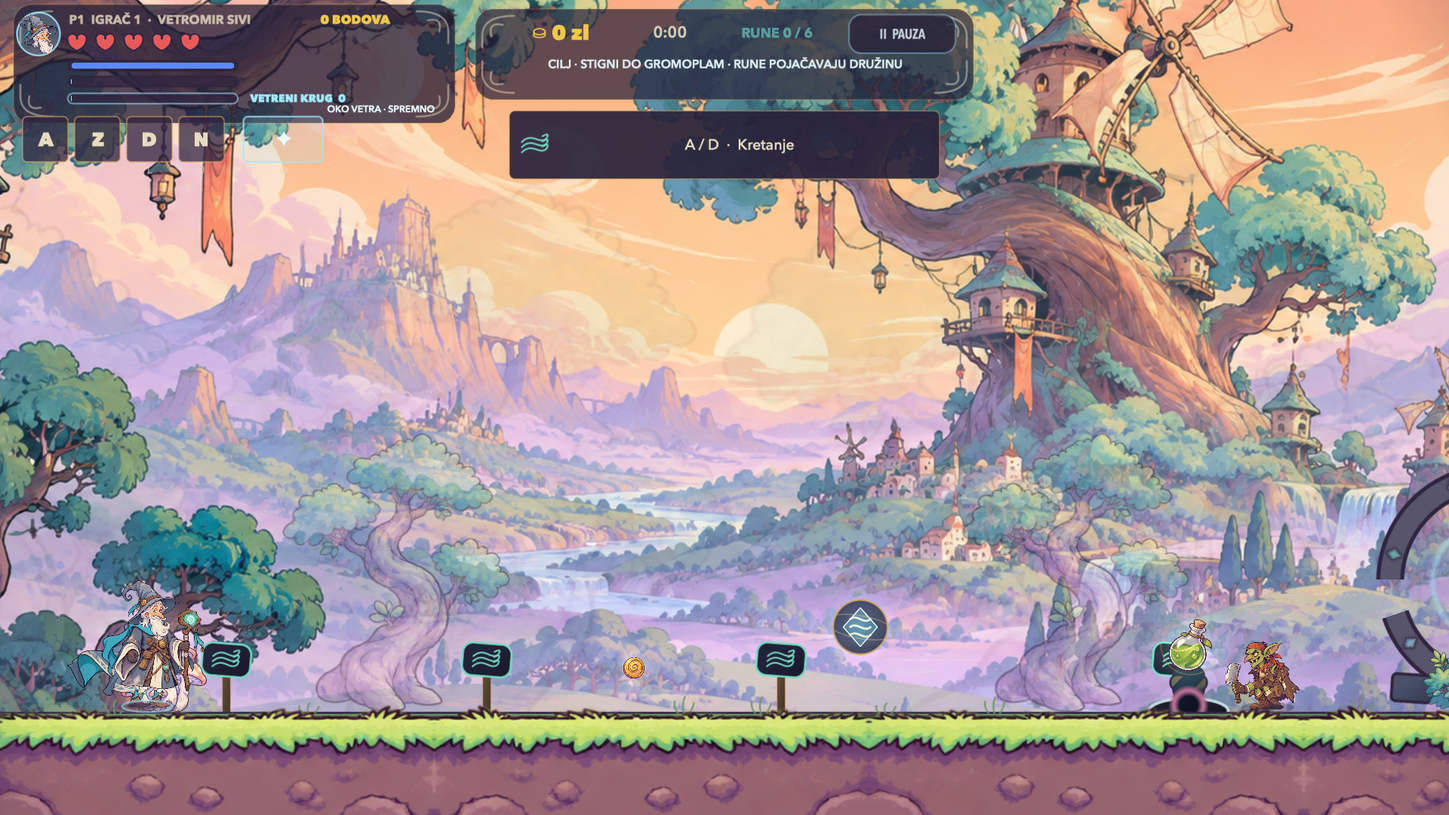
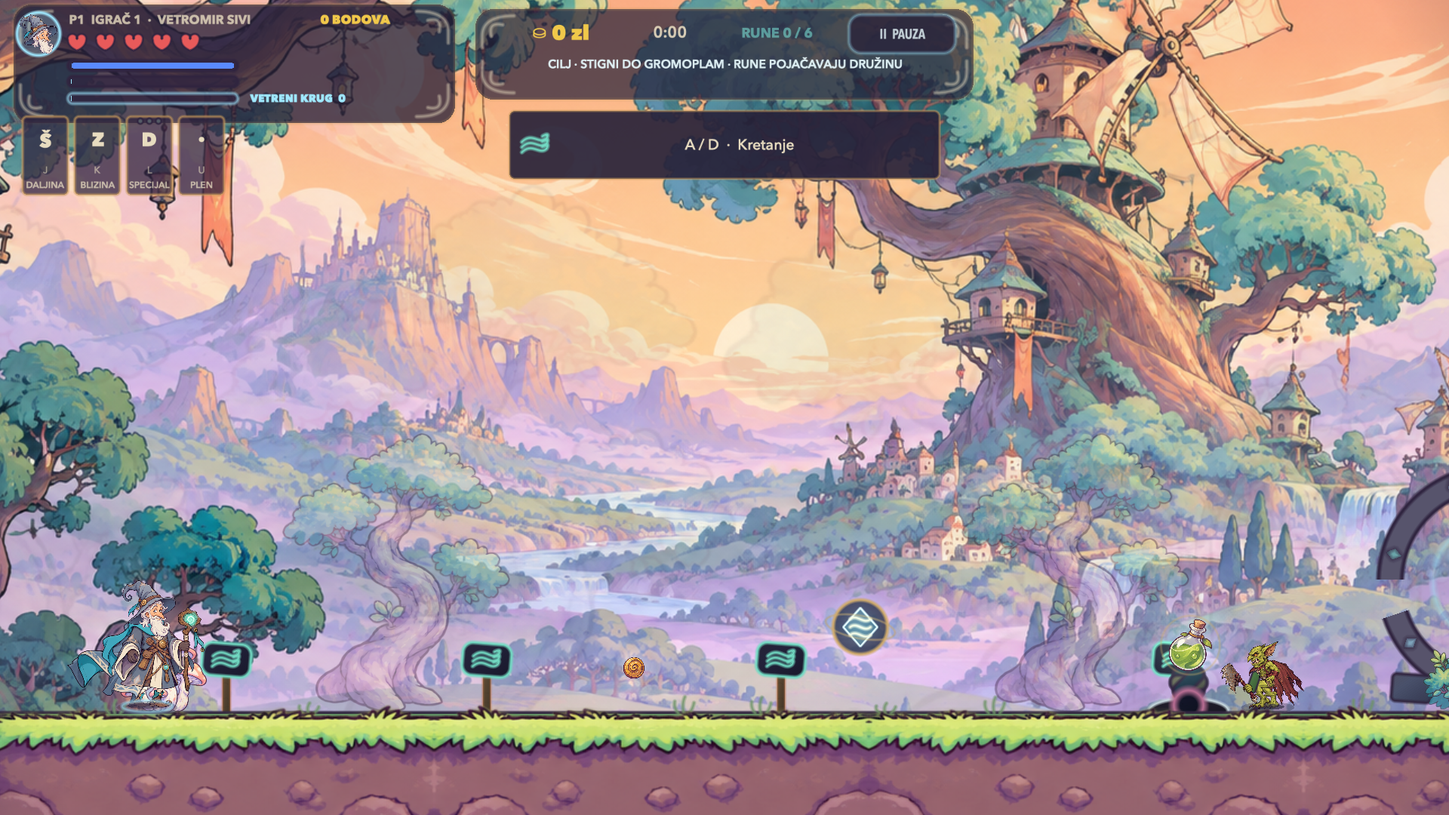
Promote free Vetromir 7.25 with current bilingual screenshots and downloads

diff --git a/en/index.html b/en/index.html
@@ -47,10 +47,10 @@
     "genre": ["Action platformer", "Run and gun", "Local co-op"],
     "playMode": ["SinglePlayer", "CoOp"],
     "inLanguage": "en",
-    "softwareVersion": "7.21",
-    "downloadUrl": "https://github.com/srdjankotarlic/vetromir-sivi-source/releases/tag/v7.21",
+    "softwareVersion": "7.25",
+    "downloadUrl": "https://github.com/srdjankotarlic/vetromir-sivi-source/releases/tag/v7.25",
     "author": {"@type": "Person", "name": "Srđan Kotarlić", "url": "https://github.com/srdjankotarlic"},
-    "offers": {"@type": "Offer", "price": "0.00", "priceCurrency": "USD", "url": "https://github.com/srdjankotarlic/vetromir-sivi-source/releases/tag/v7.21", "availability": "https://schema.org/InStock"}
+    "offers": {"@type": "Offer", "price": "0.00", "priceCurrency": "USD", "url": "https://github.com/srdjankotarlic/vetromir-sivi-source/releases/tag/v7.25", "availability": "https://schema.org/InStock"}
   }
   </script>
 
@@ -254,32 +254,32 @@
           <a href="#download">Download</a><a href="#faq">FAQ</a><a href="../" lang="sr">Srpsko izdanje</a>
         </div>
       </details>
-      <a class="btn primary" href="https://github.com/srdjankotarlic/vetromir-sivi-source/releases/tag/v7.21">Download free</a>
+      <a class="btn primary" href="https://github.com/srdjankotarlic/vetromir-sivi-source/releases/tag/v7.25">Download free</a>
     </nav>
   </header>
 
   <main id="main">
     <section class="hero" style="border-top:0">
       <div class="wrap hero-copy">
-        <span class="version">7.21 · CURIOUS ARSENAL · ENGLISH + SERBIAN</span>
+        <span class="version">7.25 · FIERCER ENCOUNTERS · ENGLISH + SERBIAN</span>
         <h1><span>VETROMIR</span>SHADOWLANDS ADVENTURES</h1>
         <p class="sub">Mrakovina has lost its wind. Choose one of eight heroes, cross ten full adventures and open the path to NEDAH, guardian of the Zero Sky.</p>
         <div class="cta">
-          <a class="btn primary" href="https://github.com/srdjankotarlic/vetromir-sivi-source/releases/tag/v7.21">Download free</a>
+          <a class="btn primary" href="https://github.com/srdjankotarlic/vetromir-sivi-source/releases/tag/v7.25">Download free</a>
           <a class="btn" href="#preview">See the new game</a>
         </div>
         <ul class="trust"><li>Free, both languages</li><li>No account or ads</li><li>1-2 local players</li><li>Progress stays on your Mac</li></ul>
 
         <div class="game-preview" id="preview">
-          <a href="../assets/en/03-ashwind-grove.png"><img src="../assets/en/03-ashwind-grove.png" width="1920" height="1080" fetchpriority="high" alt="Vetromir 7.21: the current hero and painted Ashwind Grove in the English game"></a>
+          <a href="../assets/en/03-ashwind-grove.png"><img src="../assets/en/03-ashwind-grove.png" width="1920" height="1080" fetchpriority="high" alt="Vetromir 7.25: the current hero and painted Ashwind Grove in the English game"></a>
         </div>
-        <p class="preview-note">Captured in version 7.21. Open the image to see it at full size.</p>
+        <p class="preview-note">Captured in version 7.25. Open the image to see it at full size.</p>
 
         <div class="numbers" aria-label="Game content">
           <div class="number"><strong>8</strong><span>heroes</span></div>
           <div class="number"><strong>10 + 1</strong><span>adventures</span></div>
           <div class="number"><strong>11</strong><span>guardians</span></div>
-          <div class="number"><strong>1,399</strong><span>enemies</span></div>
+          <div class="number"><strong>918</strong><span>powerful enemies</span></div>
           <div class="number"><strong>1-2</strong><span>players</span></div>
         </div>
       </div>
@@ -291,7 +291,7 @@
         <h2>Movement, combat and choices that reshape the journey</h2>
         <p class="lead">This is more than running and shooting. Every hero changes the rhythm, every world introduces a rule and every guardian demands a new answer.</p>
         <div class="feature-grid">
-          <article class="feature"><i>8</i><h3>Eight distinct arsenals</h3><p>Plant mines and detonate them, link floating anchors, snap returning shears or stretch a cutting thread. Each hero has a personal primary and secondary combination.</p></article>
+          <article class="feature"><i>8</i><h3>Three powers, eight styles</h3><p>Ranged, melee and a unique special for every hero. Plant mines, link anchors, recall a sabre or stretch a cutting thread. Slot four holds attacks found during the run.</p></article>
           <article class="feature"><i>↗</i><h3>Movement worth mastering</h3><p>Variable jumps, coyote time, buffering, wall slides, long jumps, gliding and aerial strikes form one connected system.</p></article>
           <article class="feature"><i>XI</i><h3>A journey with an ending</h3><p>Ten full chapters unlock the Zero Sky, NEDAH's five phases and a complete epilogue.</p></article>
           <article class="feature"><i>2</i><h3>Local fellowship</h3><p>Play solo or add a second player. Keyboard, mouse and controller bindings are remappable.</p></article>
@@ -316,8 +316,8 @@
             <a class="showcase-media" href="../assets/en/04-bell-city.png"><img src="../assets/en/04-bell-city.png" alt="A later Vetromir chapter in English" width="1280" height="720" loading="lazy"></a>
           </article>
           <article class="showcase-card">
-            <a class="showcase-media" href="../assets/en/05-signature-move.png"><img src="../assets/en/05-signature-move.png" alt="A hero signature move in combat" width="1280" height="720" loading="lazy"></a>
-            <div class="showcase-copy"><span class="eyebrow">COMBAT IDENTITY</span><h3>Primary attacks do not share the same logic</h3><p>Heroes return blades, place anchors, wake sentinel seeds, close space, guard allies or spend a personal resource to reverse a fight.</p><div class="tags"><span class="tag">primary weapons</span><span class="tag">signature moves</span><span class="tag">supers</span></div></div>
+            <a class="showcase-media" href="../assets/en/05-signature-move.png"><img src="../assets/en/05-signature-move.png" alt="Vetromir and power-up runes in version 7.25" width="1920" height="1080" loading="lazy"></a>
+            <div class="showcase-copy"><span class="eyebrow">COMBAT IDENTITY</span><h3>Primary attacks do not share the same logic</h3><p>Heroes return blades, place anchors, wake sentinel seeds, close space or guard allies. Three permanent powers cover ranged, melee and special attacks; collected loot adds a fourth option.</p><div class="tags"><span class="tag">ranged</span><span class="tag">melee</span><span class="tag">special</span><span class="tag">loot</span></div></div>
           </article>
         </div>
       </div>
@@ -330,14 +330,14 @@
         <p class="lead">No choice is merely a different costume. Each hero has a personal weapon, resource, movement model, defence and finishing move.</p>
         <a class="wide-shot" href="../assets/en/02-eight-heroes.png"><img src="../assets/en/02-eight-heroes.png" alt="Eight playable heroes in the English edition" width="1280" height="720" loading="lazy"></a>
         <div class="roster">
-          <div class="hero-card"><strong>Vetromir Grey</strong><span>wind astrolabe and pocket storm</span></div>
-          <div class="hero-card"><strong>Vukasin</strong><span>returning shears and closing cut</span></div>
-          <div class="hero-card"><strong>Zorvid</strong><span>sky compass and constellation break</span></div>
-          <div class="hero-card"><strong>Gvozdan</strong><span>marble furnace and remote detonation</span></div>
-          <div class="hero-card"><strong>Ognjen</strong><span>dawn parasol and noon mirror</span></div>
-          <div class="hero-card"><strong>Rujana</strong><span>crimson spool and silk loom</span></div>
-          <div class="hero-card"><strong>Jasenka</strong><span>seed chime and full bloom</span></div>
-          <div class="hero-card"><strong>Nocena</strong><span>yesterday's lantern and replayed strikes</span></div>
+          <div class="hero-card"><strong>Vetromir Sivi</strong><span>spiralwind staff and pocket storm</span></div>
+          <div class="hero-card"><strong>Vukasin</strong><span>returning sabre and closing cut</span></div>
+          <div class="hero-card"><strong>Zorvid</strong><span>star bow and constellation break</span></div>
+          <div class="hero-card"><strong>Gvozdan</strong><span>embercore hammer and remote detonation</span></div>
+          <div class="hero-card"><strong>Ognjen</strong><span>flying dawn spear and noon mirror</span></div>
+          <div class="hero-card"><strong>Rujana</strong><span>rosepetal rapier and silk loom</span></div>
+          <div class="hero-card"><strong>Jasenka</strong><span>living thorn staff and full bloom</span></div>
+          <div class="hero-card"><strong>Nocena</strong><span>moon sickle and replayed strikes</span></div>
         </div>
       </div>
     </section>
@@ -353,10 +353,10 @@
 
     <section id="download">
       <div class="wrap">
-        <div class="center"><span class="eyebrow">BEGIN THE JOURNEY</span><h2>Download Vetromir free</h2><p class="lead">The new 7.21 release includes English and Serbian in one app, as a DMG or ZIP. For Apple Silicon Macs running macOS 13 Ventura or newer.</p></div>
+        <div class="center"><span class="eyebrow">BEGIN THE JOURNEY</span><h2>Download Vetromir free</h2><p class="lead">The new 7.25 release includes English and Serbian in one app, as a DMG or ZIP. For Apple Silicon Macs running macOS 13 Ventura or newer.</p></div>
         <div class="download-grid">
-          <article class="download-card recommended"><span class="eyebrow">COMPLETE GAME</span><h3>macOS DMG + ZIP</h3><p>Choose the DMG for the easiest installation or the ZIP as a fallback. Both languages are inside the same app.</p><span class="filename">Version 7.21 · Apple Silicon · English + Serbian</span><a class="btn primary" href="https://github.com/srdjankotarlic/vetromir-sivi-source/releases/tag/v7.21">Download free</a></article>
-          <article class="download-card"><span class="eyebrow">CURRENT RELEASE</span><h3>Press kit 7.21</h3><p>Current Full HD screenshots, the arsenal guide, release facts and social copy in English and Serbian.</p><span class="filename">Screenshots · arsenal · copy · tested scope</span><a class="btn" href="https://github.com/srdjankotarlic/vetromir-sivi-source/releases/download/v7.21/Vetromir-7.21-Press-Kit.zip">Download the press kit</a></article>
+          <article class="download-card recommended"><span class="eyebrow">COMPLETE GAME</span><h3>macOS DMG + ZIP</h3><p>Choose the DMG for the easiest installation or the ZIP as a fallback. Both languages are inside the same app.</p><span class="filename">Version 7.25 · Apple Silicon · English + Serbian</span><a class="btn primary" href="https://github.com/srdjankotarlic/vetromir-sivi-source/releases/tag/v7.25">Download free</a></article>
+          <article class="download-card"><span class="eyebrow">CURRENT RELEASE</span><h3>Press kit 7.25</h3><p>Current Full HD screenshots, the arsenal guide, release facts and social copy in English and Serbian.</p><span class="filename">Screenshots · arsenal · copy · tested scope</span><a class="btn" href="https://github.com/srdjankotarlic/vetromir-sivi-source/releases/download/v7.25/Vetromir-7.25-Press-Kit.zip">Download the press kit</a></article>
         </div>
         <div class="steps">
           <div class="step"><b>1</b><strong>Open the GitHub release</strong><span>Under Assets, choose the DMG, not Source code.</span></div>
@@ -372,10 +372,10 @@
       <div class="wrap center">
         <span class="eyebrow">FAQ</span><h2>Before you set out</h2>
         <div class="faq">
-          <details open><summary>How much does Vetromir cost?</summary><p>The complete 7.21 release is free on public GitHub. There are no subscriptions, ads, in-game purchases or time limits. itch.io still hosts an earlier release and companion material.</p></details>
+          <details open><summary>How much does Vetromir cost?</summary><p>The complete 7.25 release is free on public GitHub. There are no subscriptions, ads, in-game purchases or time limits. itch.io still hosts an earlier release and companion material.</p></details>
           <details><summary>Which Macs are supported?</summary><p>Apple Silicon models with an M1, M2, M3, M4 or newer chip and macOS 13 Ventura or newer. Intel Macs, Windows, Linux, iPhone and Android are not supported.</p></details>
           <details><summary>Can two people play together?</summary><p>Yes. Vetromir supports one or two local players. Keyboard, mouse and compatible controller bindings can be changed in the menu.</p></details>
-          <details><summary>Are both languages included?</summary><p>Yes. Version 7.21 contains English and Serbian in the same app, and language can be changed from the menu.</p></details>
+          <details><summary>Are both languages included?</summary><p>Yes. Version 7.25 contains English and Serbian in the same app, and language can be changed from the menu.</p></details>
           <details><summary>Why does macOS show a security warning?</summary><p>The app is ad-hoc signed but not Apple-notarized. Right-click the app and choose Open, or use Privacy &amp; Security → Open Anyway for the first launch.</p></details>
           <details><summary>Does the game collect data?</summary><p>No. There are no accounts, analytics, telemetry or network services. Profiles, equipment and scores remain on the local computer.</p></details>
         </div>
@@ -383,13 +383,13 @@
     </section>
 
     <section class="final-cta">
-      <div class="wrap"><span class="eyebrow">THE WIND IS WAITING</span><h2>Choose a hero. Bring breath back to the Shadowlands.</h2><p>Ten adventures, the Zero Sky, eight arsenals and four attacks to find on the journey. Free, in both languages.</p><div class="cta"><a class="btn primary" href="https://github.com/srdjankotarlic/vetromir-sivi-source/releases/tag/v7.21">Download free</a><a class="btn gold" href="#preview">See the new game</a></div></div>
+      <div class="wrap"><span class="eyebrow">THE WIND IS WAITING</span><h2>Choose a hero. Bring breath back to the Shadowlands.</h2><p>Ten adventures, the Zero Sky, eight arsenals and four attacks to find on the journey. Free, in both languages.</p><div class="cta"><a class="btn primary" href="https://github.com/srdjankotarlic/vetromir-sivi-source/releases/tag/v7.25">Download free</a><a class="btn gold" href="#preview">See the new game</a></div></div>
     </section>
   </main>
 
   <footer>
     <div class="wrap">VETROMIR: SHADOWLANDS ADVENTURES · © 2026 Srđan Kotarlić · All rights reserved.<br>
-      <a href="../" lang="sr">Srpski</a> · <a href="https://github.com/srdjankotarlic/vetromir-sivi-source/releases/tag/v7.21">Download free</a>
+      <a href="../" lang="sr">Srpski</a> · <a href="https://github.com/srdjankotarlic/vetromir-sivi-source/releases/tag/v7.25">Download free</a>
     </div>
   </footer>
 

diff --git a/index.html b/index.html
@@ -46,10 +46,10 @@
     "genre": ["Action platformer", "Run and gun", "Local co-op"],
     "playMode": ["SinglePlayer", "CoOp"],
     "inLanguage": "sr",
-    "softwareVersion": "7.21",
-    "downloadUrl": "https://github.com/srdjankotarlic/vetromir-sivi-source/releases/tag/v7.21",
+    "softwareVersion": "7.25",
+    "downloadUrl": "https://github.com/srdjankotarlic/vetromir-sivi-source/releases/tag/v7.25",
     "author": {"@type": "Person", "name": "Srđan Kotarlić", "url": "https://github.com/srdjankotarlic"},
-    "offers": {"@type": "Offer", "price": "0.00", "priceCurrency": "USD", "url": "https://github.com/srdjankotarlic/vetromir-sivi-source/releases/tag/v7.21", "availability": "https://schema.org/InStock"}
+    "offers": {"@type": "Offer", "price": "0.00", "priceCurrency": "USD", "url": "https://github.com/srdjankotarlic/vetromir-sivi-source/releases/tag/v7.25", "availability": "https://schema.org/InStock"}
   }
   </script>
 
@@ -281,32 +281,32 @@
           <a href="#preuzmi">Preuzmi</a><a href="#faq">FAQ</a><a href="en/" lang="en">English edition</a>
         </div>
       </details>
-      <a class="btn primary" href="https://github.com/srdjankotarlic/vetromir-sivi-source/releases/tag/v7.21">Preuzmi besplatno</a>
+      <a class="btn primary" href="https://github.com/srdjankotarlic/vetromir-sivi-source/releases/tag/v7.25">Preuzmi besplatno</a>
     </nav>
   </header>
 
   <main id="main">
     <section class="hero" style="border-top:0">
       <div class="wrap hero-copy">
-        <span class="version">7.21 · ČUDESNI ARSENAL · SRPSKI + ENGLESKI</span>
+        <span class="version">7.25 · OPASNIJI SUSRETI · SRPSKI + ENGLESKI</span>
         <h1><span>VETROMIR</span>AVANTURE MRAKOVINE</h1>
         <p class="sub">Mrakovina je progutala vetar. Izaberi jednog od osam junaka, pređi deset velikih avantura i otvori put ka NEDAHU, čuvaru Nultog neba.</p>
         <div class="cta">
-          <a class="btn primary" href="https://github.com/srdjankotarlic/vetromir-sivi-source/releases/tag/v7.21">Preuzmi besplatno</a>
+          <a class="btn primary" href="https://github.com/srdjankotarlic/vetromir-sivi-source/releases/tag/v7.25">Preuzmi besplatno</a>
           <a class="btn" href="#preview">Pogledaj novu igru</a>
         </div>
         <ul class="trust"><li>Besplatno, oba jezika</li><li>Bez naloga i oglasa</li><li>1–2 igrača lokalno</li><li>Napredak ostaje na Macu</li></ul>
 
         <div class="game-preview" id="preview">
-          <a href="assets/01-gaj-pepeljastog-vetra.png"><img src="assets/01-gaj-pepeljastog-vetra.png" width="1920" height="1080" fetchpriority="high" alt="Vetromir 7.21: novi junak, oslikani Gaj i aktuelni prikaz igre"></a>
+          <a href="assets/01-gaj-pepeljastog-vetra.png"><img src="assets/01-gaj-pepeljastog-vetra.png" width="1920" height="1080" fetchpriority="high" alt="Vetromir 7.25: novi junak, oslikani Gaj i aktuelni prikaz igre"></a>
         </div>
-        <p class="preview-note">Kadar iz verzije 7.21. Otvori sliku za prikaz u punoj veličini.</p>
+        <p class="preview-note">Kadar iz verzije 7.25. Otvori sliku za prikaz u punoj veličini.</p>
 
         <div class="numbers" aria-label="Sadržaj igre">
           <div class="number"><strong>8</strong><span>junaka</span></div>
           <div class="number"><strong>10 + 1</strong><span>avantura</span></div>
           <div class="number"><strong>11</strong><span>čuvara</span></div>
-          <div class="number"><strong>1.399</strong><span>neprijatelja</span></div>
+          <div class="number"><strong>918</strong><span>snažnih protivnika</span></div>
           <div class="number"><strong>1–2</strong><span>igrača</span></div>
         </div>
       </div>
@@ -318,7 +318,7 @@
         <h2>Pokret, borba i izbor koji stvarno menjaju pohod</h2>
         <p class="lead">Nije samo trčanje i pucanje. Svaki junak menja ritam, svaki svet uvodi novo pravilo, a svaki čuvar traži drugačiji odgovor.</p>
         <div class="feature-grid">
-          <article class="feature"><div class="icon">8</div><h3>Osam različitih arsenala</h3><p>Postavi mine pa ih detoniraj, spoji svetlosna sidra, zatvori makaze ili zategni reznu nit. Svaki junak ima svoje osnovno oružje i sporednu kombinaciju.</p></article>
+          <article class="feature"><div class="icon">8</div><h3>Tri moći, osam stilova</h3><p>Daljinski napad, bliski napad i jedinstven specijal za svakog junaka. Postavi mine, spoji sidra, vrati sablju ili zategni reznu nit. Četvrti slot čuva osvojeni napad.</p></article>
           <article class="feature"><div class="icon">↗</div><h3>Pokret koji možeš da savladaš</h3><p>Promenljivi skok, coyote vreme, buffer, zidno klizanje, dugi skok, lebdenje i vazdušni udar čine povezan sistem.</p></article>
           <article class="feature"><div class="icon">XI</div><h3>Pohod sa pravim završetkom</h3><p>Deset velikih poglavlja otključava Nulto nebo, pet faza završnog bossa i trodelni epilog.</p></article>
           <article class="feature"><div class="icon">2</div><h3>Lokalna družina</h3><p>Igraj sam ili priključi drugog igrača. Tastatura, miš i kontroler mogu da se podese u meniju.</p></article>
@@ -357,14 +357,14 @@
         <p class="lead">Nijedan izbor nije samo drugačiji kostim. Svaki junak ima sopstveno oružje, resurs, kretanje, odbranu i završni potez.</p>
         <a class="wide-shot" href="assets/02-osam-junaka.png"><img src="assets/02-osam-junaka.png" alt="Ekran izbora osam junaka u Vetromiru" width="1920" height="1080" loading="lazy"></a>
         <div class="roster">
-          <div class="hero-card"><strong>Vetromir Sivi</strong><span>astrolab vetrova i džepna oluja</span></div>
-          <div class="hero-card"><strong>Vukašin</strong><span>povratne makaze i ukršteni rez</span></div>
-          <div class="hero-card"><strong>Zorvid</strong><span>nebeski šestar i prelom sazvežđa</span></div>
-          <div class="hero-card"><strong>Gvozdan</strong><span>kotao klikera i crveno dugme</span></div>
-          <div class="hero-card"><strong>Ognjen</strong><span>suncobran svitanja i ogledalo podneva</span></div>
-          <div class="hero-card"><strong>Rujana</strong><span>kalem rumene niti i razboj svile</span></div>
-          <div class="hero-card"><strong>Jasenka</strong><span>zvončić semena i rascvetavanje</span></div>
-          <div class="hero-card"><strong>Noćena</strong><span>fenjer jučerašnjice i ponovljeni udari</span></div>
+          <div class="hero-card"><strong>Vetromir Sivi</strong><span>štap spiralnog vetra i džepna oluja</span></div>
+          <div class="hero-card"><strong>Vukašin</strong><span>povratna sablja i ukršteni rez</span></div>
+          <div class="hero-card"><strong>Zorvid</strong><span>zvezdani luk i prelom sazvežđa</span></div>
+          <div class="hero-card"><strong>Gvozdan</strong><span>čekić užarenog jezgra i detonacija mina</span></div>
+          <div class="hero-card"><strong>Ognjen</strong><span>leteće koplje svitanja i ogledalo podneva</span></div>
+          <div class="hero-card"><strong>Rujana</strong><span>rapir ružinih latica i razboj svile</span></div>
+          <div class="hero-card"><strong>Jasenka</strong><span>štap živog trna i rascvetavanje</span></div>
+          <div class="hero-card"><strong>Noćena</strong><span>mesečev srp i ponovljeni udari</span></div>
         </div>
       </div>
     </section>
@@ -372,8 +372,8 @@
     <section>
       <div class="wrap">
         <article class="showcase-card reverse">
-          <div class="showcase-copy"><span class="eyebrow">LIČNI POTEZI</span><h3>Najbolji napad zavisi od trenutka</h3><p>Glavni napadi ne dele istu logiku. Junaci grade pritisak, vraćaju projektile, postavljaju sidra, bude semena, zatvaraju prostor ili troše lični resurs za preokret.</p><div class="tags"><span class="tag">glavni napad</span><span class="tag">specijalni napad</span><span class="tag">super</span><span class="tag">kontra</span></div></div>
-          <a class="showcase-media" href="assets/04-licni-potez.png"><img src="assets/04-licni-potez.png" alt="Vetromirov lični potez tokom borbe" width="1920" height="1080" loading="lazy"></a>
+          <div class="showcase-copy"><span class="eyebrow">TRI MOĆI I PLEN</span><h3>Najbolji napad zavisi od trenutka</h3><p>Glavni napadi ne dele istu logiku. Junaci grade pritisak, vraćaju projektile, postavljaju sidra, bude semena i zatvaraju prostor. Puna energija pojačava sledeći specijal.</p><div class="tags"><span class="tag">daljina</span><span class="tag">blizina</span><span class="tag">specijal</span><span class="tag">plen</span></div></div>
+          <a class="showcase-media" href="assets/04-licni-potez.png"><img src="assets/04-licni-potez.png" alt="Vetromir i rune pojačanja u verziji 7.25" width="1920" height="1080" loading="lazy"></a>
         </article>
       </div>
     </section>
@@ -389,10 +389,10 @@
 
     <section id="preuzmi">
       <div class="wrap">
-        <div class="center"><span class="eyebrow">POČNI POHOD</span><h2>Preuzmi Vetromir besplatno</h2><p class="lead">Novo izdanje 7.21 uključuje srpski i engleski u jednoj aplikaciji, kao DMG ili ZIP. Za Apple Silicon Mac sa macOS 13 Ventura ili novijim.</p></div>
+        <div class="center"><span class="eyebrow">POČNI POHOD</span><h2>Preuzmi Vetromir besplatno</h2><p class="lead">Novo izdanje 7.25 uključuje srpski i engleski u jednoj aplikaciji, kao DMG ili ZIP. Za Apple Silicon Mac sa macOS 13 Ventura ili novijim.</p></div>
         <div class="download-grid">
-          <article class="download-card recommended"><span class="eyebrow">KOMPLETNA IGRA</span><h3>macOS DMG + ZIP</h3><p>Izaberi DMG za najlakšu instalaciju ili ZIP kao rezervu. Oba jezika su u istoj aplikaciji.</p><span class="filename">Verzija 7.21 · Apple Silicon · srpski + engleski</span><a class="btn primary" href="https://github.com/srdjankotarlic/vetromir-sivi-source/releases/tag/v7.21">Preuzmi besplatno</a></article>
-          <article class="download-card"><span class="eyebrow">NOVO IZDANJE</span><h3>Press kit 7.21</h3><p>Aktuelne Full HD slike, vodič kroz arsenal, opis izdanja i tekstovi za objave na srpskom i engleskom.</p><span class="filename">Slike · arsenal · tekstovi · provere</span><a class="btn" href="https://github.com/srdjankotarlic/vetromir-sivi-source/releases/download/v7.21/Vetromir-7.21-Press-Kit.zip">Preuzmi promotivni paket</a></article>
+          <article class="download-card recommended"><span class="eyebrow">KOMPLETNA IGRA</span><h3>macOS DMG + ZIP</h3><p>Izaberi DMG za najlakšu instalaciju ili ZIP kao rezervu. Oba jezika su u istoj aplikaciji.</p><span class="filename">Verzija 7.25 · Apple Silicon · srpski + engleski</span><a class="btn primary" href="https://github.com/srdjankotarlic/vetromir-sivi-source/releases/tag/v7.25">Preuzmi besplatno</a></article>
+          <article class="download-card"><span class="eyebrow">NOVO IZDANJE</span><h3>Press kit 7.25</h3><p>Aktuelne Full HD slike, vodič kroz arsenal, opis izdanja i tekstovi za objave na srpskom i engleskom.</p><span class="filename">Slike · arsenal · tekstovi · provere</span><a class="btn" href="https://github.com/srdjankotarlic/vetromir-sivi-source/releases/download/v7.25/Vetromir-7.25-Press-Kit.zip">Preuzmi promotivni paket</a></article>
         </div>
         <div class="steps">
           <div class="step"><b>1</b><strong>Otvori GitHub izdanje</strong><span>U odeljku Assets izaberi DMG, ne Source code.</span></div>
@@ -408,7 +408,7 @@
       <div class="wrap center">
         <span class="eyebrow">ČESTA PITANJA</span><h2>Pre nego što kreneš</h2>
         <div class="faq" style="text-align:left">
-          <details open><summary>Koliko Vetromir košta?</summary><p>Kompletna verzija 7.21 je besplatna na javnom GitHubu. Nema pretplate, oglasa, kupovina u igri ni vremenskog ograničenja. itch.io ostaje dostupan za ranije izdanje i dodatni materijal.</p></details>
+          <details open><summary>Koliko Vetromir košta?</summary><p>Kompletna verzija 7.25 je besplatna na javnom GitHubu. Nema pretplate, oglasa, kupovina u igri ni vremenskog ograničenja. itch.io ostaje dostupan za ranije izdanje i dodatni materijal.</p></details>
           <details><summary>Koji Mac računari su podržani?</summary><p>Apple Silicon modeli sa M1, M2, M3, M4 ili novijim čipom i macOS 13 Ventura ili novijim. Intel Mac, Windows, Linux, iPhone i Android trenutno nisu podržani.</p></details>
           <details><summary>Da li mogu da igram sa još jednom osobom?</summary><p>Da. Vetromir podržava jednog ili dva lokalna igrača. Kontrole tastature, miša i kompatibilnog kontrolera mogu da se promene u meniju.</p></details>
           <details><summary>Zašto macOS prikazuje bezbednosno upozorenje?</summary><p>Aplikacija je ad-hoc potpisana, ali nije Apple notarizovana. Desni klik na aplikaciju pa Open, ili Privacy &amp; Security → Open Anyway, omogućava prvo pokretanje.</p></details>
@@ -419,13 +419,13 @@
     </section>
 
     <section class="final-cta">
-      <div class="wrap"><span class="eyebrow">VETAR ČEKA</span><h2>Izaberi junaka. Vrati dah Mrakovini.</h2><p>Deset avantura, Nulto nebo, osam arsenala i četiri napada koja osvajaš u pohodu. Sve besplatno, na oba jezika.</p><div class="cta"><a class="btn primary" href="https://github.com/srdjankotarlic/vetromir-sivi-source/releases/tag/v7.21">Preuzmi besplatno</a><a class="btn gold" href="#preview">Pogledaj novu igru</a></div></div>
+      <div class="wrap"><span class="eyebrow">VETAR ČEKA</span><h2>Izaberi junaka. Vrati dah Mrakovini.</h2><p>Deset avantura, Nulto nebo, osam arsenala i četiri napada koja osvajaš u pohodu. Sve besplatno, na oba jezika.</p><div class="cta"><a class="btn primary" href="https://github.com/srdjankotarlic/vetromir-sivi-source/releases/tag/v7.25">Preuzmi besplatno</a><a class="btn gold" href="#preview">Pogledaj novu igru</a></div></div>
     </section>
   </main>
 
   <footer>
     <div class="wrap">VETROMIR: AVANTURE MRAKOVINE · © 2026 Srđan Kotarlić · Sva prava zadržana.<br>
-      <a href="en/" lang="en">English</a> · <a href="https://github.com/srdjankotarlic/vetromir-sivi-source/releases/tag/v7.21">Preuzmi besplatno</a>
+      <a href="en/" lang="en">English</a> · <a href="https://github.com/srdjankotarlic/vetromir-sivi-source/releases/tag/v7.25">Preuzmi besplatno</a>
     </div>
   </footer>
 

diff --git a/README.md b/README.md
@@ -4,7 +4,7 @@ This public repository contains only the official bilingual marketing website fo
 VETROMIR. It does not contain the game source code, installers or release files.
 
 - Website: https://srdjankotarlic.github.io/vetromir-sivi/
-- Download 7.21 free: https://github.com/srdjankotarlic/vetromir-sivi-source/releases/tag/v7.21
+- Download 7.25 free: https://github.com/srdjankotarlic/vetromir-sivi-source/releases/tag/v7.25
 - Platform: macOS 13+, Apple Silicon
 - Languages: English and Serbian
 - Price: Free
